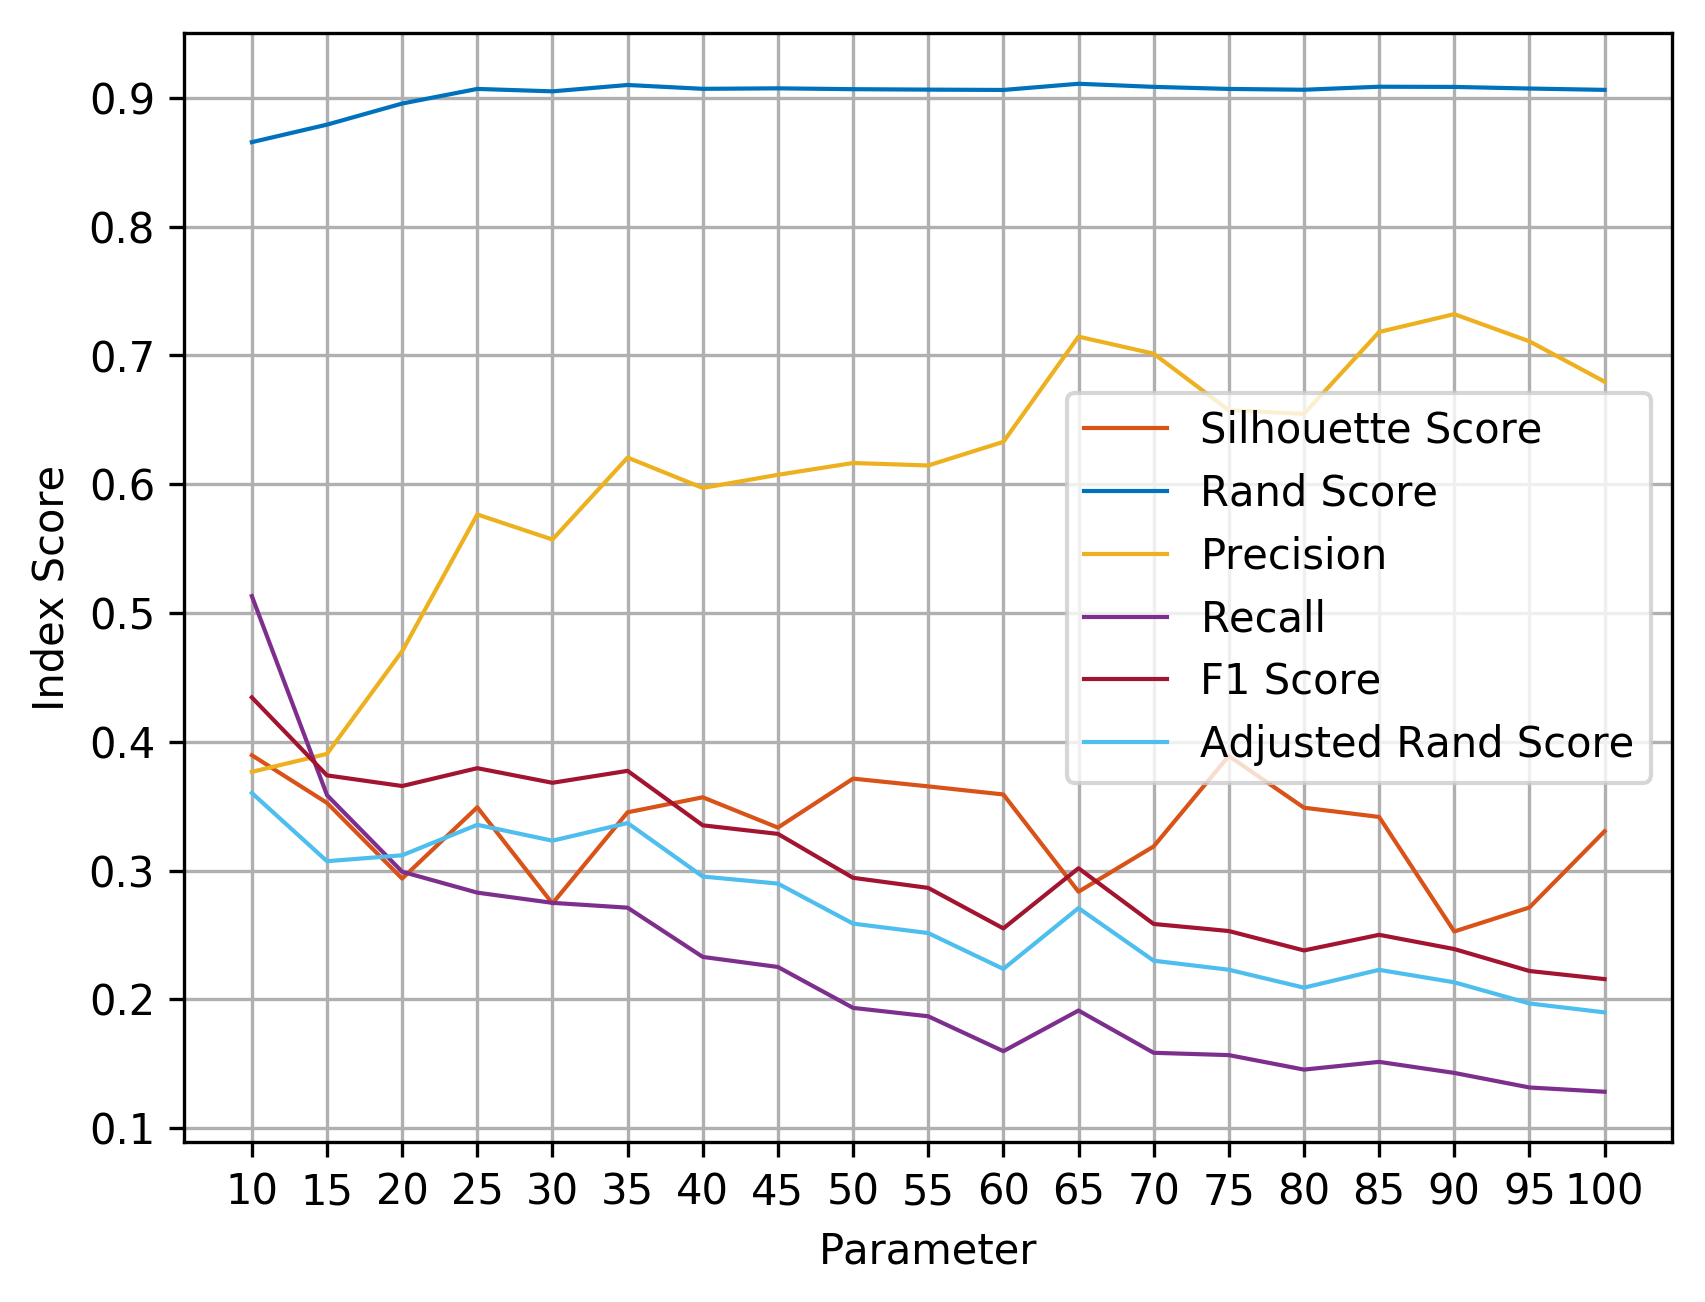
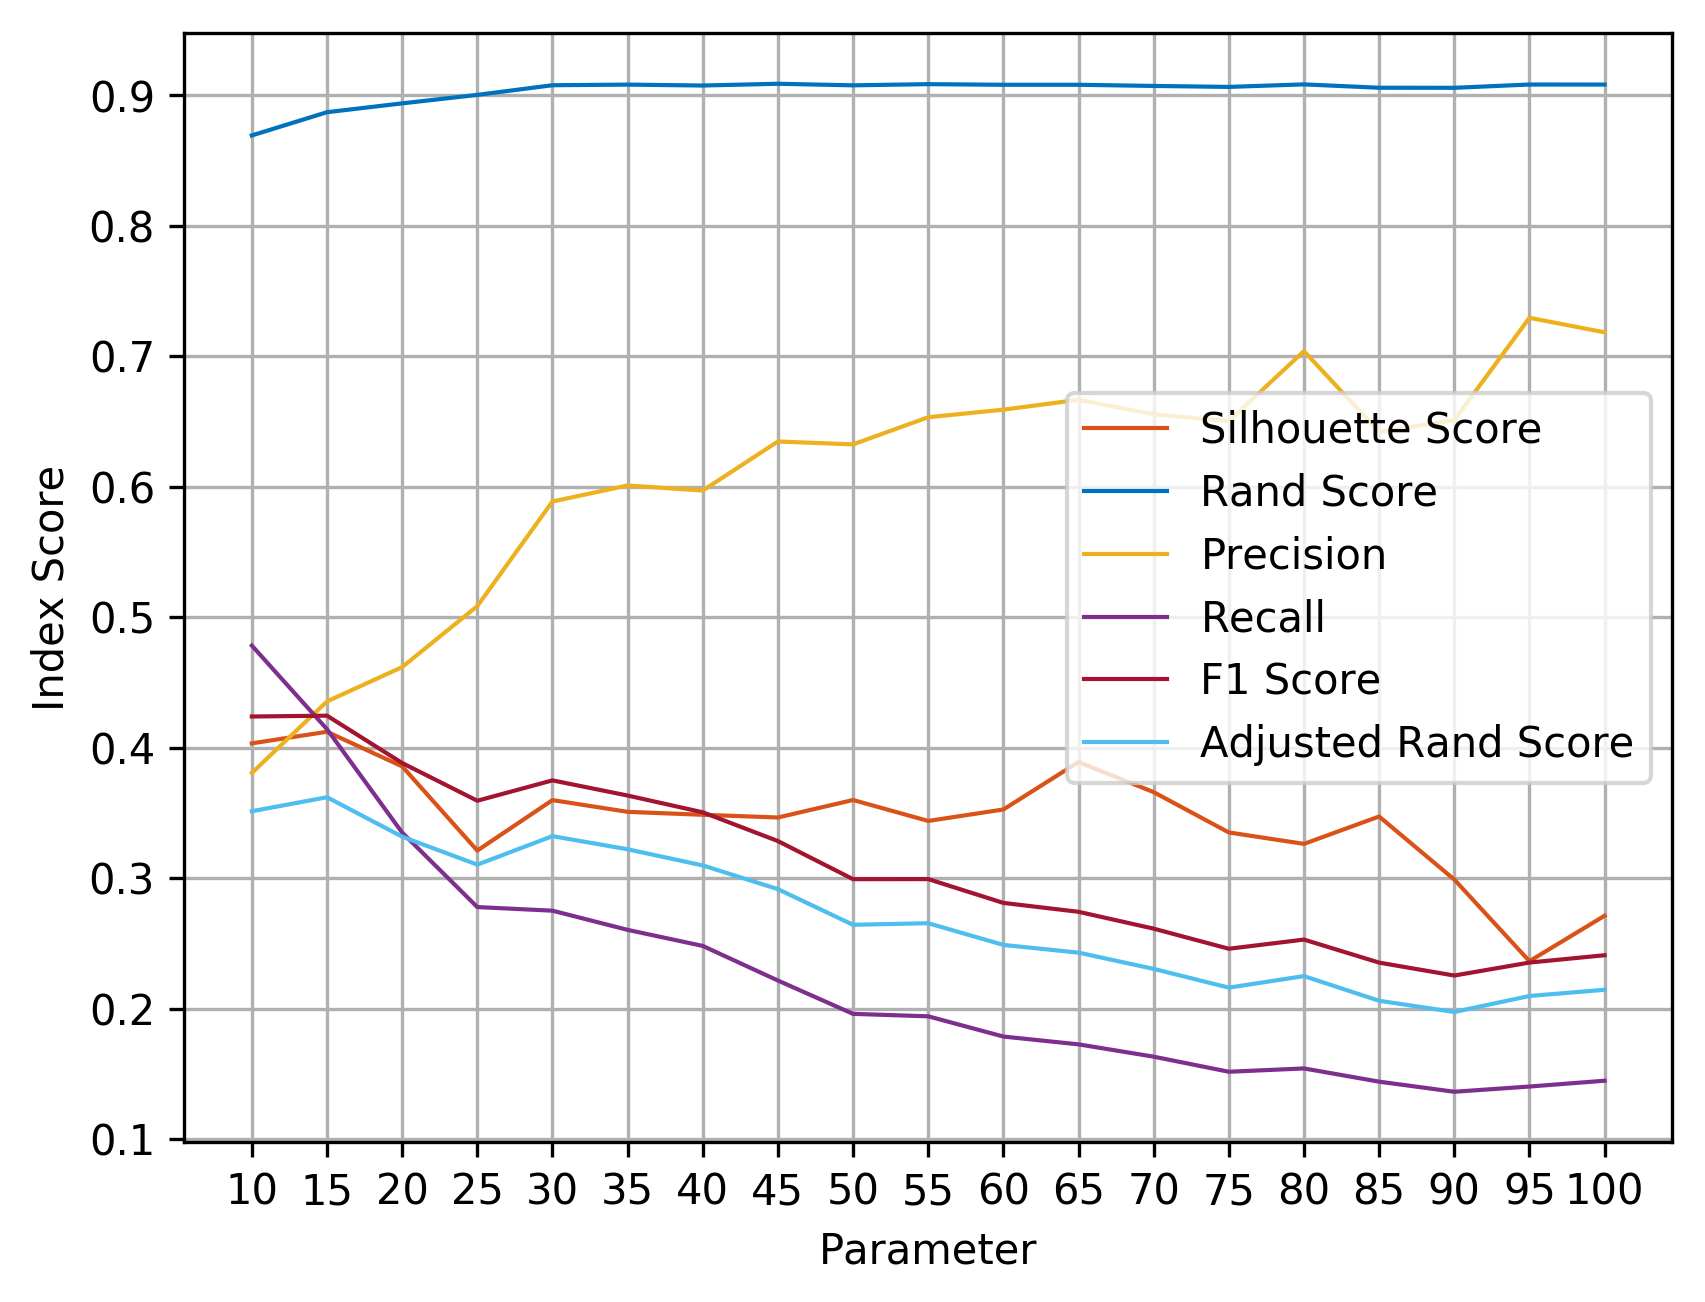
DONE!!

diff --git a/TP2/tp2.py b/TP2/tp2.py
@@ -23,82 +23,96 @@ from plotClasses import plot_classes
 import matplotlib.pyplot as plt
 from aux import plot_performance, compute_silhouette, compute_rand_indexes
 
-def lat_lon_to_3d(lat,lon):
-	x = RADIUS * np.cos(lat * np.pi / 180) * np.cos(lon * np.pi / 180)
-	y = RADIUS * np.cos(lat * np.pi / 180) * np.cos(lon * np.pi / 180)
-	z = RADIUS * np.sin(lat * np.pi / 180)
-	return x,y,z
+RADIUS = 6371  # raio da terra em km
 
-#guardar latitude, longitude e falha de cada sismo
+def lat_lon_to_3d(lat, lon):
+    x = RADIUS * np.cos(lat * np.pi / 180) * np.cos(lon * np.pi / 180)
+    y = RADIUS * np.cos(lat * np.pi / 180) * np.cos(lon * np.pi / 180)
+    z = RADIUS * np.sin(lat * np.pi / 180)
+    return x, y, z
+
+
+# guardar latitude, longitude e falha de cada sismo
 def get_data(filename):
-	data = pd.read_csv(filename)
-	faults = data["fault"]
-	latitudes = data["latitude"]
-	longitudes = data["longitude"]
-	return faults, latitudes, longitudes
+    data = pd.read_csv(filename)
+    faults = data["fault"]
+    latitudes = data["latitude"]
+    longitudes = data["longitude"]
+    return faults, latitudes, longitudes
 
-#devolve array com (x,y,z) de cada sismo
+
+# devolve array com (x,y,z) de cada sismo
 def all_points_to_3d(latitudes, longitudes):
-	points = []
-	for ix in range(len(latitudes)):
-		x,y,z = lat_lon_to_3d(latitudes[ix],longitudes[ix])
-		points.append([x,y,z])
-	return points
+    points = []
+    for ix in range(len(latitudes)):
+        x, y, z = lat_lon_to_3d(latitudes[ix], longitudes[ix])
+        points.append([x, y, z])
+    return points
 
-#devolve array com clusterings para cada num de clusters
+
+# devolve array com clusterings para cada num de clusters
 def k_means_cluster(points):
     clustering_labels = []
     labels = []
     print("started clustering with k-means")
-    for ix in range(10,105,5):#ha 90 falhas
-        clustering = cl.KMeans(n_clusters = ix).fit(points)
+    for ix in range(10, 105, 5):  # ha 90 falhas
+        clustering = cl.KMeans(n_clusters=ix).fit(points)
         clustering_labels.append(clustering.labels_)
         labels.append(ix)
     return labels, clustering_labels
 
-#devolve array com clusterings para cada num de componentes gaussianos
+
+# devolve array com clusterings para cada num de componentes gaussianos
 def gauss_mm(points):
     clustering_labels = []
     labels = []
     print("started clustering with Gaussian Mixture Models")
-    for ix in range(10,105,5):#ha 90 falhas
-        clustering = mx.GaussianMixture(n_components = ix).fit(points)
+    for ix in range(10, 105, 5):  # ha 90 falhas
+        clustering = mx.GaussianMixture(n_components=ix).fit(points)
         clustering_labels.append(clustering.predict(points))
         print(ix, "clusters, ", clustering.n_iter_, "iterations this time")
         labels.append(ix)
     return labels, clustering_labels
 
-#devolve o epsilon ideal para o dbscan
-def plot_for_dbscan(points,faults):
+
+# devolve o epsilon ideal para o dbscan
+def plot_for_dbscan(points, faults):
     dists = []
     knn = nb.KNeighborsClassifier(n_neighbors=4)
     knn.fit(points, np.zeros(len(points)))
     for ix in range(len(points)):
-        curr = knn.kneighbors([points[ix]],n_neighbors=4)[0]
-        dists.append(curr.item(3))#o kneighbors devolve o array ordenado, a dist mais alta e a ultima
-    dists.sort(); dists.reverse()#dists fica ordenado da distancia maior para a mais pequena
-    plt.plot(dists[0:800],'k,'); plt.show();
+        curr = knn.kneighbors([points[ix]], n_neighbors=4)[0]
+        dists.append(curr.item(3))  # o kneighbors devolve o array ordenado, a dist mais alta e a ultima
+    dists.sort();
+    dists.reverse()  # dists fica ordenado da distancia maior para a mais pequena
+    plt.plot(dists[0:800], 'k,');
+    plt.show();
     num_f = num_noise(faults)
-    print("\nEpsilon ideal:",dists[num_f],"\nNum. de sismos sem falha:",num_f)
+    print("\nEpsilon ideal:", dists[num_f], "\nNum. de sismos sem falha:", num_f)
     return
 
-#devolve o numero de pontos nao associados a uma falha
+
+# devolve o numero de pontos nao associados a uma falha
 def num_noise(faults):
     count = 0
-    for ix in range(1,len(faults)):
-        if(faults[ix] == -1):
+    for ix in range(1, len(faults)):
+        if (faults[ix] == -1):
             count = count + 1
     return count
 
-#devolve array com clusterings para cada num de componentes gaussianos
+
+# devolve array com clusterings para cada num de componentes gaussianos
 def dbscan_labels(points):
-	clustering_labels = [];
-	print("started clustering with DBSCAN")
-	for ix in range(10,105,5):#ha 90 falhas
-		clustering = cl.DBSCAN(EPSILON).fit(points)
-		clustering_labels.append(clustering.labels_)
-		print(ix,"clusters, ")
-	return clustering_labels
+    clustering_labels = []
+    print("started clustering with DBSCAN")
+    labels = []
+    for ix in range(10, 105, 5):  # ha 90 falhas
+        clustering = cl.DBSCAN(ix).fit(points)
+        clustering_labels.append(clustering.labels_)
+        print(ix, "clusters, ")
+        labels.append(ix)
+    return labels, clustering_labels
+
 
 def plot_Kmeans(points, faults):
     labels, kmeans = k_means_cluster(points)
@@ -112,42 +126,22 @@ def plot_gauss(points, faults):
     plot_performance(labels, "Parameter", "Index Score", "./Gauss.png", silhouette, precision, recall, rand, f1, adj_rand)
 
 
+def plot_dbscan(points, faults):
+    labels, dbscan = dbscan_labels(points)
+    silhouette, precision, recall, rand, f1, adj_rand = compute_silhouette(dbscan, faults, points)
+    plot_performance(labels, "Parameter", "Index Score", "./DBSCAN.png", silhouette, precision, recall, rand, f1, adj_rand)
+
+
 def show_plots():
     faults, latitudes, longitudes = get_data("tp2_data.csv")
     points = all_points_to_3d(latitudes, longitudes)
-    plot_Kmeans(points, faults)
-    plot_gauss(points, faults)
-    plot_for_dbscan(points, faults)
+    # plot_Kmeans(points, faults)
+    # plot_gauss(points, faults)
+    plot_dbscan(points, faults)
+    # plot_for_dbscan(points, faults)
 
 # plot_classes(kmeans[0], longitudes, latitudes)
 
 # print("gaussian[0]: ",gaussian[0])
 # plot_classes(gaussian[0],longitudes,latitudes)
 # print(dists)
-
-
-
-
-
-
-
-
-
-
-
-
-
-
-
-
-
-
-
-
-
-
-
-
-
-
-
